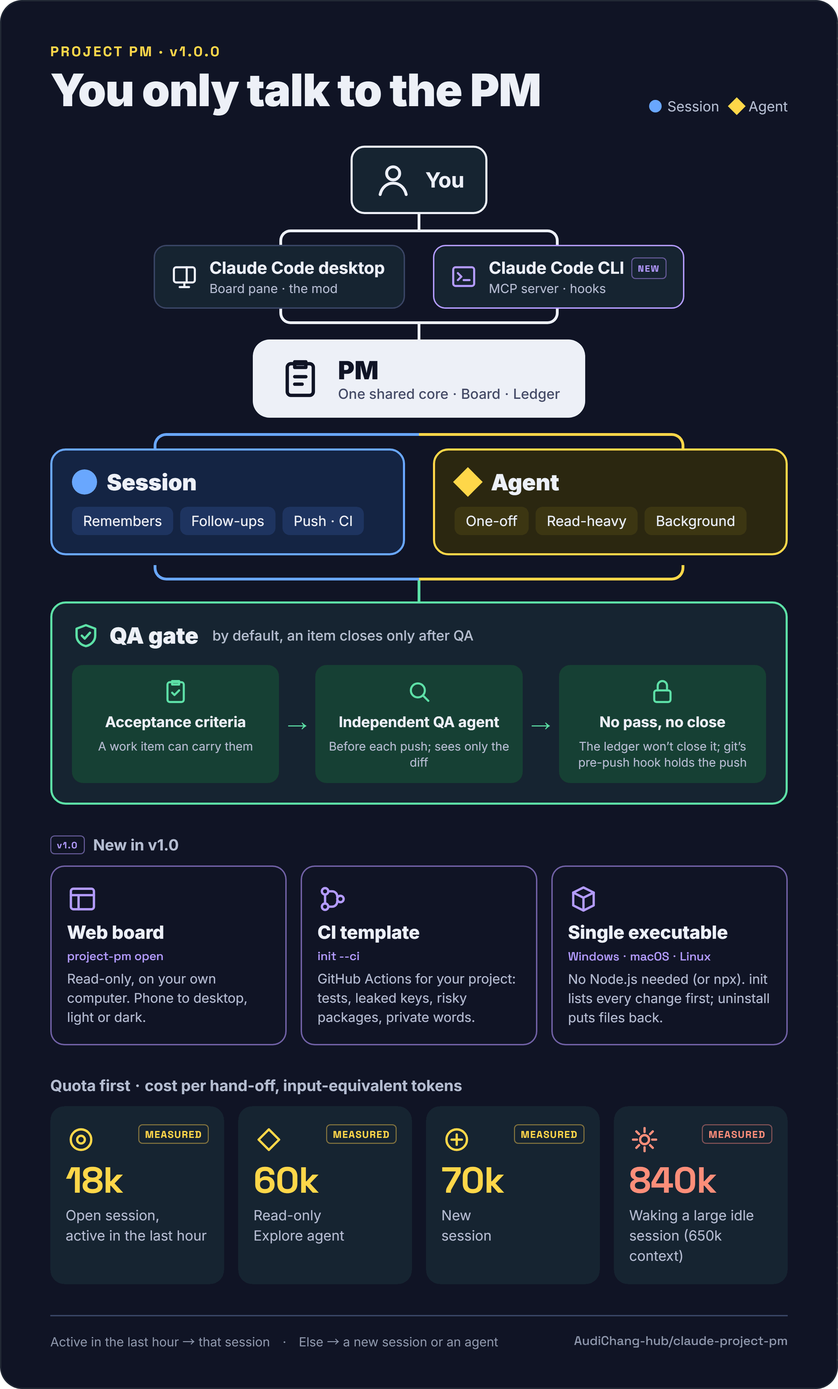
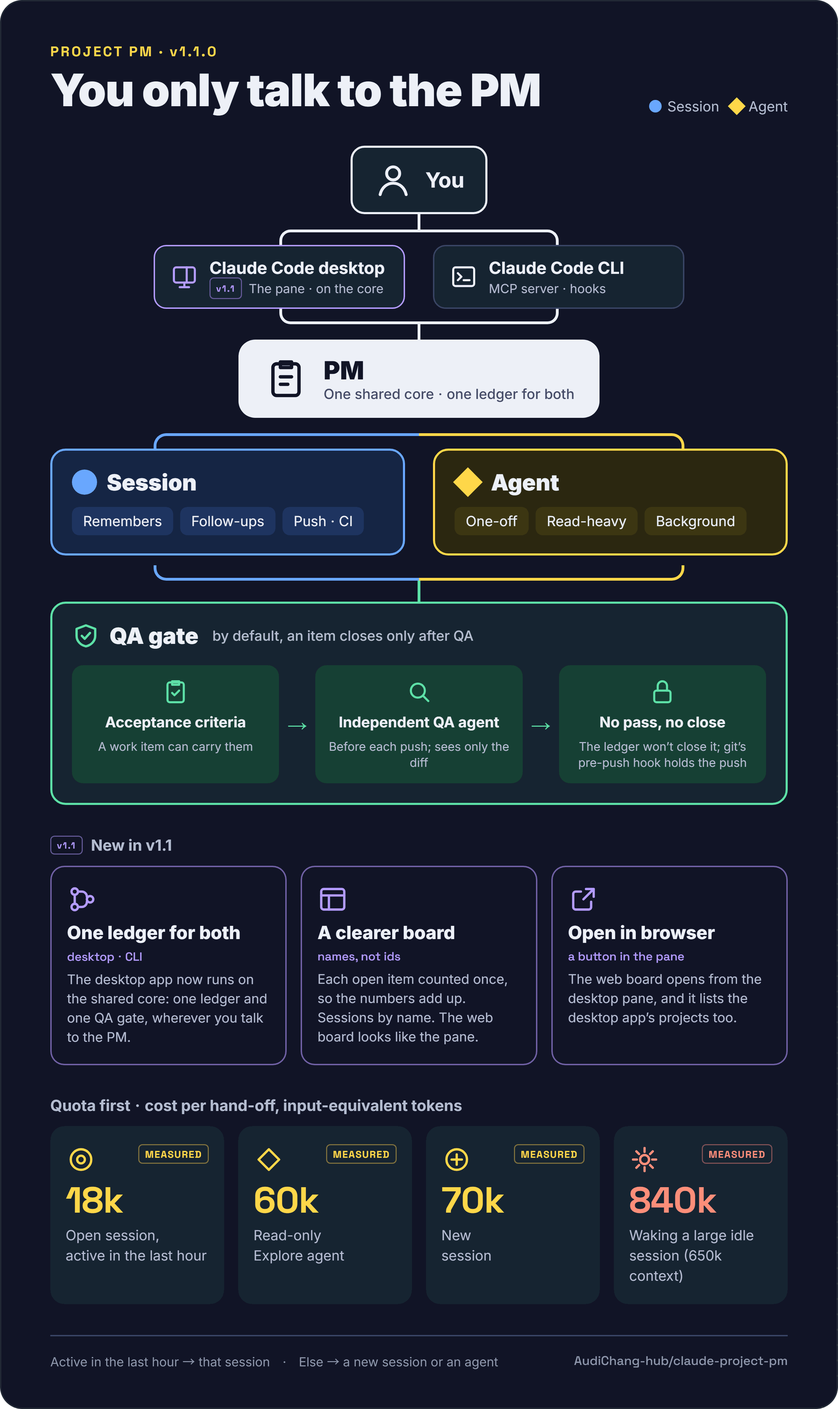
Prepare v1.1.0's docs: changelog, version, READMEs, overview (T-40 M7)
- CHANGELOG: the 1.1.0 entry (2026-11-21) for T-40, T-42, T-43, T-44,
  T-45, T-46, T-47 and T-49, with a placeholder line for T-48 (the PM
  manages its own context: auto compact and auto handoff), to be written
  in full when M8 merges. Unreleased stays, empty.
- Version 1.1.0 (MINOR: v1.1 adds features) in .claude-plugin/plugin.json,
  core/package.json, core/package-lock.json and core/src/version.ts (held
  equal to package.json by mcp.spec). init's E2 gate (core/src/mod.ts
  E2_VERSION) is already 1.1.0, so this mod counts as one the core joins.
- README en and zh-TW: "New in v1.1" in plain words in place of v1.0's
  highlights (v1.0 is one line to the CHANGELOG); the platform table as of
  v1.1, desktop and CLI only: a Web board row, the ledger and QA gate
  shared by both once the core is installed; overview alt text says v1.1.
  7,989 and 7,962 bytes (were 7,770 and 7,755; no CI or test limits them).
- docs/demo/board.html: the line under the progress counts the open items
  as openBreakdown does (T-42), in OPEN_COLOR's colors: "5 open: 2 awaiting
  QA · 3 on track". Its image is not re-shot here (after M8).
- docs/demo/overview.html: v1.1.0. The desktop way in carries the v1.1
  badge (on the core); the PM is "one shared core, one ledger for both";
  New in v1.1: one ledger for both, a clearer board, open in browser. No
  M8 content. docs/images/overview*.png re-rendered with capture.ps1 and
  cropped and reduced as docs/demo/README.md says; README there updated.

diff --git a/docs/demo/overview.html b/docs/demo/overview.html
@@ -1,10 +1,12 @@
 <!doctype html>
 <!--
-  The v1.0.0 one-page overview at the top of the READMEs, as a static page to capture.
-  Built on the v0.8.0 design canvas "Project PM v0.8.0 一頁圖解" and the v0.9.0 QA layer. v1.0 adds the
-  two ways in (the desktop app through the mod, the CLI through the core's MCP server and hooks, both on
-  one shared store: docs/design/v1-core.md) and the core's three new pieces: the web board, the CI
-  template for your own projects and the single executable.
+  The v1.1.0 one-page overview at the top of the READMEs, as a static page to capture.
+  Built on the v0.8.0 design canvas "Project PM v0.8.0 一頁圖解" and the v0.9.0 QA layer. v1.0 added the
+  two ways in (the desktop app through the mod, the CLI through the core's MCP server and hooks) and the
+  core. v1.1 has the desktop mod use the core too (E2, docs/design/v1-core.md 2.4 and 3.7), so both ways
+  share one ledger and one QA gate (T-40), and shows v1.1's three new pieces: the shared ledger, a clearer
+  board (T-42, T-43, T-44) and the web board opened from the pane (T-45, T-47). T-48 (the PM managing its
+  own context) is not on it yet.
 
   Views:  overview.html?lang=en      docs/images/overview.png
           overview.html?lang=zh-TW   docs/images/overview-zh-TW.png
@@ -103,7 +105,7 @@
   .way b { display: block; font-size: 24px; font-weight: 700; }
   .way small { display: block; font-size: 18px; color: var(--ink-2); margin-top: 4px; }
   .way.new { border-color: var(--violet); }
-  .way b .badge { margin-left: 10px; vertical-align: 3px; }
+  .way small .badge { margin-right: 10px; vertical-align: 2px; }
   .badge { font: 700 13px/1 var(--num); letter-spacing: .1em; color: var(--violet); border: 1.5px solid rgba(180, 156, 255, .5); border-radius: 6px; padding: 6px 8px 5px; white-space: nowrap; }
   :lang(zh-TW) .badge { font: 700 14px/1 var(--sans); letter-spacing: .04em; padding: 6px 8px; }
   /* You → the two ways in → the PM: a stem, then a bracket whose ends meet each box at its middle (columns 400px apart). */
@@ -147,10 +149,10 @@ const COPY = {
     title: 'You only talk to the PM',
     you: 'You',
     ways: [
-      ['Claude Code desktop', 'Board pane · the mod', ''],
-      ['Claude Code CLI', 'MCP server · hooks', 'NEW'],
+      ['Claude Code desktop', 'The pane · on the core', 'v1.1'],
+      ['Claude Code CLI', 'MCP server · hooks', ''],
     ],
-    pm: 'One shared core · Board · Ledger',
+    pm: 'One shared core · one ledger for both',
     session: ['Remembers', 'Follow-ups', 'Push · CI'],
     agent: ['One-off', 'Read-heavy', 'Background'],
     qaTitle: 'QA gate',
@@ -160,11 +162,11 @@ const COPY = {
       ['Independent QA agent', 'Before each push; sees only the diff'],
       ['No pass, no close', 'The ledger won’t close it; git’s <span class="nowrap">pre-push hook</span> holds the push'],
     ],
-    coreTitle: 'New in v1.0',
+    coreTitle: 'New in v1.1',
     pieces: [
-      ['Web board', 'project-pm open', 'Read-only, on your own computer. Phone to desktop, light or dark.'],
-      ['CI template', 'init --ci', 'GitHub Actions for your project: tests, leaked keys, risky packages, private words.'],
-      ['Single executable', 'Windows · macOS · Linux', 'No Node.js needed (or npx). init lists every change first; uninstall puts files back.'],
+      ['One ledger for both', 'desktop · CLI', 'The desktop app now runs on the shared core: one ledger and one QA gate, wherever you talk to the PM.'],
+      ['A clearer board', 'names, not ids', 'Each open item counted once, so the numbers add up. Sessions by name. The web board looks like the pane.'],
+      ['Open in browser', 'a button in the pane', 'The web board opens from the desktop pane, and it lists the desktop app’s projects too.'],
     ],
     costsTitle: 'Quota first · cost per hand-off, input-equivalent tokens',
     stats: [
@@ -179,10 +181,10 @@ const COPY = {
     title: '你只跟 PM 說話',
     you: '你',
     ways: [
-      ['Claude Code 桌面版', '看板面板 · mod', ''],
-      ['Claude Code CLI', 'MCP server · hook', '新'],
+      ['Claude Code 桌面版', '看板面板 · 改用核心', 'v1.1'],
+      ['Claude Code CLI', 'MCP server · hook', ''],
     ],
-    pm: '共用核心 · 看板 · 交辦清單',
+    pm: '共用核心 · 兩邊同一份交辦清單',
     session: ['要記憶', '會追問', 'push · CI'],
     agent: ['做完就走', '大量讀取', '背景執行'],
     qaTitle: 'QA 關卡',
@@ -192,11 +194,11 @@ const COPY = {
       ['獨立驗收 Agent', 'push 前派出，只看 diff'],
       ['沒通過不能結案', '交辦清單拒絕結案，git 的 <span class="nowrap">pre-push hook</span> 擋下 push'],
     ],
-    coreTitle: 'v1.0 新增',
+    coreTitle: 'v1.1 新增',
     pieces: [
-      ['網頁看板', 'project-pm open', '唯讀，只在你自己的電腦上。手機到桌面、淺色深色都能看。'],
-      ['CI 範本', 'init --ci', '給你的專案用的 GitHub Actions：測試、外洩的金鑰、有風險的套件、不能公開的詞。'],
-      ['單一執行檔', 'Windows · macOS · Linux', '不用裝 Node.js（也可用 npx）。init 先列出要改的檔，uninstall 會還原。'],
+      ['同一份交辦清單', '桌面版 · CLI', '桌面版改用共用核心：不管在哪裡跟 PM 說話，都是同一份交辦清單、同一道 QA 關卡。'],
+      ['看板更好懂', '用名稱，不用 id', '每個進行中的項目只算一次，數字加得起來。Session 用名稱顯示，網頁看板和面板長得一樣。'],
+      ['在瀏覽器開啟', '面板上的一個按鈕', '從桌面版面板直接打開網頁看板，桌面版的專案也列得出來。'],
     ],
     costsTitle: '額度優先 · 每次派工的成本（等值輸入 tokens）',
     stats: [
@@ -229,9 +231,10 @@ const ICON = {
     '<rect x="5" y="11" width="14" height="10" rx="2"></rect><path d="M8 11V7a4 4 0 0 1 8 0v4"></path>',
   ],
   pieces: [
-    '<rect x="3" y="4" width="18" height="16" rx="2"></rect><path d="M3 9h18M9 9v11"></path>',
+    // Two ways meeting in one ledger; the board; a window opening outward.
     '<circle cx="6" cy="6" r="2.5"></circle><circle cx="6" cy="18" r="2.5"></circle><circle cx="18" cy="12" r="2.5"></circle><path d="M6 8.5v7M8.5 6h3a4 4 0 0 1 4 4M8.5 18h3a4 4 0 0 0 4-4"></path>',
-    '<path d="M12 3 4 7v10l8 4 8-4V7z"></path><path d="m4 7 8 4 8-4M12 11v10"></path>',
+    '<rect x="3" y="4" width="18" height="16" rx="2"></rect><path d="M3 9h18M9 9v11"></path>',
+    '<path d="M14 4h6v6M20 4l-8 8"></path><path d="M18 14v4a2 2 0 0 1-2 2H6a2 2 0 0 1-2-2V8a2 2 0 0 1 2-2h4"></path>',
   ],
   stats: [
     '<circle cx="12" cy="12" r="3"></circle><circle cx="12" cy="12" r="8"></circle>',
@@ -243,7 +246,7 @@ const ICON = {
 document.getElementById('poster').innerHTML = `
   <div class="row head">
     <div>
-      <div class="eyebrow">PROJECT PM · v1.0.0</div>
+      <div class="eyebrow">PROJECT PM · v1.1.0</div>
       <h1>${c.title}</h1>
     </div>
     <div class="row legend"><span><i class="dot"></i>Session</span><span><i class="diamond"></i>Agent</span></div>
@@ -253,7 +256,7 @@ document.getElementById('poster').innerHTML = `
     <div class="row you">${svg(56, '#eef1f8', 1.8, ICON.person)}${c.you}</div>
     <div class="stem short"></div>
     <div class="fork"><i></i><i></i></div>
-    <div class="ways">${c.ways.map(([b, t, tag], i) => `<div class="way${tag ? ' new' : ''}">${svg(40, tag ? '#b49cff' : '#eef1f8', 1.8, ICON.ways[i])}<div><b>${b}${tag ? `<span class="badge">${tag}</span>` : ''}</b><small>${dot(t)}</small></div></div>`).join('')}</div>
+    <div class="ways">${c.ways.map(([b, t, tag], i) => `<div class="way${tag ? ' new' : ''}">${svg(40, tag ? '#b49cff' : '#eef1f8', 1.8, ICON.ways[i])}<div><b>${b}</b><small>${tag ? `<span class="badge">${tag}</span>` : ''}${dot(t)}</small></div></div>`).join('')}</div>
     <div class="join"><i></i><i></i></div>
     <div class="stem short"></div>
     <div class="row pm">${svg(64, '#0e1322', 1.8, ICON.clipboard)}<div><b>PM</b><small>${dot(c.pm)}</small></div></div>
@@ -271,7 +274,7 @@ document.getElementById('poster').innerHTML = `
   </div>
 
   <div class="core">
-    <h2><span class="badge">v1.0</span>${c.coreTitle}</h2>
+    <h2><span class="badge">v1.1</span>${c.coreTitle}</h2>
     <div class="three">${c.pieces.map(([b, code, t], i) => `<div class="piece">${svg(44, '#b49cff', 1.8, ICON.pieces[i])}<b>${b}</b><code>${dot(code)}</code><p>${t}</p></div>`).join('')}</div>
   </div>
 

diff --git a/docs/demo/board.html b/docs/demo/board.html
@@ -138,6 +138,13 @@ const MESSAGES = {
     'pane.pmSelf': 'PM: this session',
     'pane.itemsDone': 'Work items done {done}/{total}',
     'pane.itemsOpen': '{n} open',
+    'items.open': '{n} open',
+    'items.summary': '{lead}: {parts}',
+    'items.joiner': ' · ',
+    'items.qaFailed': '{n} failed QA',
+    'items.qaAwaiting': '{n} awaiting QA',
+    'items.unassigned': '{n} unassigned',
+    'items.normal': '{n} on track',
     'pane.kpiRunning': 'Running',
     'pane.kpiAsking': 'Waiting on you',
     'pane.kpiOpen': 'Not finished',
@@ -190,6 +197,13 @@ const MESSAGES = {
     'pane.pmSelf': 'PM：本 Session',
     'pane.itemsDone': '工作項目完成 {done}/{total}',
     'pane.itemsOpen': '{n} 項進行中',
+    'items.open': '{n} 項進行中',
+    'items.summary': '{lead}：{parts}',
+    'items.joiner': '・',
+    'items.qaFailed': '{n} 項 QA 不通過',
+    'items.qaAwaiting': '{n} 項待 QA',
+    'items.unassigned': '{n} 項未指派',
+    'items.normal': '{n} 項正常',
     'pane.kpiRunning': '執行中',
     'pane.kpiAsking': '待回覆',
     'pane.kpiOpen': '尚未完成',
@@ -341,6 +355,26 @@ const runningAgents = agentCount('running')
 const ratio = items.done / items.total
 const SEP = '　·　'
 
+// The open items by kind, as openBreakdown in hooks/qa.ts counts them (T-42): each item once, under the first kind it is
+// (failed QA, awaiting QA, unassigned, on track), kinds with none left out. An item awaits QA when it has no verdict and
+// its owner has delivered (a session not released or waiting on CI; an agent done or to verify). Colors: OPEN_COLOR in
+// hooks/view.tsx.
+const OPEN_KINDS = ['qaFailed', 'qaAwaiting', 'unassigned', 'normal']
+const OPEN_COLOR = { qaFailed: 'error', qaAwaiting: 'warning', unassigned: 'warning' }
+const isDelivered = i => (i.agent !== undefined ? ['done', 'verify'].includes(agents[i.agent].state) : ['unreleased', 'ci'].includes(i.status))
+const openKindOf = i => {
+  if (i.qa === 'fail') return 'qaFailed'
+  if (!i.qa && isDelivered(i)) return 'qaAwaiting'
+  return i.owner || i.agent !== undefined ? 'normal' : 'unassigned'
+}
+const breakdown = () => {
+  const parts = OPEN_KINDS.map(kind => ({ kind, n: ledger.filter(i => openKindOf(i) === kind).length })).filter(p => p.n > 0)
+  const lead = t('items.open', { n: ledger.length })
+  if (!parts.length) return `<span class="dim">${lead}</span>`
+  const said = parts.map(p => `<span style="color:${OPEN_COLOR[p.kind] ? colorVar(OPEN_COLOR[p.kind]) : 'var(--ink-3)'}">${t(`items.${p.kind}`, { n: p.n })}</span>`)
+  return `<span class="dim">${t('items.summary', { lead, parts: '' })}</span>${said.join(`<span class="dim">${t('items.joiner')}</span>`)}`
+}
+
 const metric = (value, label, color, sub) => `
   <div class="metric">
     <div class="title tab" style="color:${value ? colorVar(color) : 'var(--ink-3)'}">${value}</div>
@@ -422,7 +456,7 @@ if (q.get('view') === 'states') {
         <div style="flex:1;min-width:0">
           <div class="title tab">${Math.round(ratio * 100)}%</div>
           <div class="caption dim trunc tab">${t('pane.itemsDone', { done: items.done, total: items.total })}</div>
-          <div class="caption dim trunc tab">${t('pane.itemsOpen', { n: ledger.length })}</div>
+          <div class="caption tab">${breakdown()}</div>
         </div>
       </div>
       <div class="row" style="align-items:flex-start">

diff --git a/core/src/version.ts b/core/src/version.ts
@@ -1,2 +1,2 @@
 /** The core's version: the same as core/package.json (a test holds them together), and the mod's from 1.0.0 on (D7). */
-export const VERSION = '1.0.0'
+export const VERSION = '1.1.0'

diff --git a/CHANGELOG.md b/CHANGELOG.md
@@ -7,6 +7,27 @@ Versions match `version` in `.claude-plugin/plugin.json`.
 
 ## [Unreleased]
 
+## [1.1.0] - 2026-11-21
+
+### Added
+- The desktop app and the CLI share one ledger and one QA gate (E2, docs/design/v1-core.md 2.4 and 3.7; T-40). The desktop mod finds the core in Claude Code's settings (`~/.claude.json`, user scope or this project's) or by the core's own `pm` tool in the session's tools, and then registers no `board`, `ledger` or `report` of its own: the core answers them, after the mod has refreshed the session list it keeps for the core (the PM's round file, rewritten at least every 4 minutes so the core does not take a quiet desktop app for a closed one). `/pm` and `/pm off` go through the core's `pm` tool; if the core does not answer, the mod writes its own copy as before and the core merges it on read. The mod reads a project from both copies with the core's own merge, and a session's card shows a report made through the core. The PM's agents still may not change the ledger. Without the core the mod works as in v1.0. Nothing to migrate by hand: the core's first write merges the mod's copy, and it keeps writing the mod's copy in full, so going back to a v1.0 mod or removing the core loses nothing.
+- The core knows the desktop app's sessions (T-40). In the desktop app it takes the session's own id (`CLAUDE_CODE_HOST_SESSION_ID`, `local_…`), so the PM, owners and checkers it records are the mod's. When a project's PM is a desktop session, the core's board and its close check read the desktop app's session list from that PM's last round, each session's record, last words and CI or push, and the PM's agents; a round older than 10 minutes names the sessions but none counts as running.
+- **Open in browser** at the bottom of the desktop pane opens the web board (T-45). If the core's server is running, the system's own opener gets the address; if the core is installed but not running, the core's `open` starts it; if the core is not installed, a box says how to install it, with a link to Releases. The board's private key goes to the browser only, never into the pane's words, its state or a log.
+- PM manages its own context: auto compact and auto handoff (T-48). <!-- Placeholder: written in full when M8 merges. -->
+
+### Changed
+- `init` writes the project's section straight into `CLAUDE.md` (made if there is none) and no longer writes `AGENTS.md` or an `@AGENTS.md` line; the Codex 28 KiB check and the one-line section are gone (T-40). Running `init` again on a v1.0 install takes v1.0's `AGENTS.md` section out and puts the section in place of the `@AGENTS.md` line; `uninstall` still restores both files from `install-log.json`. Beside a desktop mod of 1.1 or later, `init` now adds the MCP server and the hooks too; beside an older mod it keeps v1.0's behavior and says to update the mod. In a desktop session with the mod installed, the core's Claude Code hooks stand aside, since the mod already keeps the session's record and hands each turn the delivery ask and the guidelines.
+- The summary under the progress adds up (T-42): each open work item counts once, under what it needs most (failed QA, awaiting QA, unassigned, on track), and kinds with none are left out: "4 open: 1 failed QA · 1 awaiting QA · 1 unassigned · 1 on track". The pane, the text board and the web board say the same line from one function. Before, the pane said "4 open" and then counted an item with two problems twice.
+- Sessions are named for people, never by their raw id (T-43): by their title, else the title they reported, else their instruction cut to 40 characters, and only then a short id (`6f1d3b2a`). The web board, the pane, the toasts and `project-pm board` in a terminal show names only; the board the model reads keeps the id beside each name, since the PM assigns owners by it. The web board sets every word as text, so a title or report cannot add anything to the page (checked in headless Edge or Chrome).
+- The web board looks and counts like the desktop pane (T-44): the pane's colors, light and dark, with text in a status color brought up to WCAG AA; the completion ring, the summary line and the three figures (running, waiting on you, not finished); work items, session cards and agent cards as the pane draws them. One column on a phone, two from 1040 px, no sideways scrolling from 375 px; animations stop under reduced motion.
+- `project-pm board` (`git pm board`) prints the board as people read it, sessions by name (T-46); `--json` and the MCP board tool keep the ids. The READMEs show the PM in a terminal and `git pm board`, in both languages, drawn from the core's real output.
+- The web board's error pages say to run `git pm open` in the project's folder or press the pane's button, and the READMEs say plainly how to open the board and why typing `127.0.0.1:47130` alone shows an error page (T-45).
+- The desktop mod and the core are 1.1.0. `init` uses the core with a desktop mod from 1.1.0 on.
+
+### Fixed
+- A desktop user's web board said "No project yet": it listed only the core's own projects, while a desktop user's ledger is in the mod's folder until the core first writes it (T-47). The web board now reads both folders, each project merged as the board reads it, read only. Its empty states tell people to ask Claude in Claude Code to be the project's PM, instead of naming the `pm` tool's `claim`.
+- A QA agent that failed stayed under *Needs attention* after its work item closed (T-49). A QA agent never owns its item, and an agent was settled only by the items it owned; an agent that owns nothing now goes by its own work item, and folds away once that item is closed after the agent ended. The core's board does the same.
+
 ## [1.0.0] - 2026-11-19
 
 ### Added

diff --git a/README.zh-TW.md b/README.zh-TW.md
@@ -13,7 +13,7 @@
 </picture>
 
 <p align="center">
-  <img src="docs/images/overview-zh-TW.png" alt="Project PM v1.0.0 一頁圖解：你從 Claude Code 桌面版或 CLI 跟 PM 說話，兩邊用同一個共用核心；PM 把工作交給 Session 或 Agent；結案和 push 前都要過 QA 關卡；v1.0 新增網頁看板、CI 範本和單一執行檔；以及每次派工的實測成本。" width="100%">
+  <img src="docs/images/overview-zh-TW.png" alt="Project PM v1.1.0 一頁圖解：你從 Claude Code 桌面版或 CLI 跟 PM 說話，兩邊用同一個共用核心；PM 把工作交給 Session 或 Agent；結案和 push 前都要過 QA 關卡；v1.1 新增兩邊同一份交辦清單、更好懂的看板、從面板打開網頁看板；以及每次派工的實測成本。" width="100%">
 </p>
 
 ## 解決什麼問題
@@ -22,15 +22,15 @@
 
 Project PM 讓專案裡的一個 Session 擔任 PM。它即時掌握每個 Session 和 Agent 的狀態，記下你交辦的每件事；只要還有事在等你、沒做完、等 CI，或還沒 push、還沒發布，它就不會說「都完成了」。
 
-## v1.0 亮點
+## v1.1 新功能
 
-- **CLI 也能用。** 一份共用核心用 MCP 提供 PM 的工具，Claude Code 的命令列也有看板、交辦清單和 QA 關卡，而且和桌面版共用同一份交辦清單。
-- **push 前先驗收。** git 的 pre-push hook 會擋下沒通過 QA 的 commit；`git pm skip "<理由>"` 可以明確放行一次，理由會留下紀錄。
-- **給你的專案用的 CI 範本。** `init --ci` 加上 GitHub Actions：跑你的測試、找外洩的金鑰、有風險的套件和不能公開的詞。
-- **一個程式，不用裝 Node.js。** Windows、macOS、Linux 都有單一執行檔（npm 版之後提供）。`init` 先列出要改的每個檔，`uninstall` 把每個檔還原。
-- **網頁看板**，在瀏覽器裡看，唯讀，只在你自己的電腦上。
+- **兩邊同一份清單。** 裝了核心之後，桌面版和 CLI 用同一份交辦清單、同一道 QA 關卡。v1.0 的資料會自動帶過來。
+- **數字加得起來。** 看板把每個進行中的項目只算一次，歸在它最需要處理的那一類。
+- **用名稱，不用代碼。** Session 用標題或你交代的事顯示，不再出現一長串 id。
+- **網頁看板一鍵打開。** 按桌面版面板最下面的**在瀏覽器開啟**。網頁看板現在和面板長得一樣，也列出你在桌面版的專案。
+- **PM 的說明寫進 `CLAUDE.md`。** `init` 把專案段落寫在這裡，不再寫進 `AGENTS.md`。
 
-v0.9.x（QA 關卡、額度優先派工）：[CHANGELOG](CHANGELOG.md)
+v1.0（CLI、push 前驗收、CI 範本、單一執行檔）和更早的版本：[CHANGELOG](CHANGELOG.md)
 
 ## 安裝
 
@@ -53,18 +53,21 @@ v0.9.x（QA 關卡、額度優先派工）：[CHANGELOG](CHANGELOG.md)
 | 功能 | Claude Code 桌面版 | Claude Code CLI¹ |
 | --- | :-: | :-: |
 | 看板 | ✅ | ✅ |
-| 交辦清單 | ✅ | ✅ |
-| QA 關卡 | ✅ | ✅ |
+| 網頁看板² | ✅ | ✅ |
+| 交辦清單，兩邊共用³ | ✅ | ✅ |
+| QA 關卡，兩邊共用³ | ✅ | ✅ |
 | 交付判斷（git、CI） | ✅ | ◐ |
 | 即時追蹤 Session | ✅ | ◐ |
 | Agent 派工 | ✅ | ◐ |
 | 開發準則 | ✅ | ✅ |
-| CI 範本² | ✅ | ✅ |
+| CI 範本⁴ | ✅ | ✅ |
 
 ¹ 在 Claude Code 2.1.326 實測。看板是網頁看板和 `git pm board`。部分支援的地方：CI 狀態（git 有檢查）、只看得到裝了 hook 的 Session、不會自動設定 Agent。
-² GitHub Actions，在你的 repo 每次 push 和 pull request 時執行。
+² 要先裝核心（上面 CLI 的步驟）。桌面版按面板上的**在瀏覽器開啟**。
+³ 裝了核心之後；沒裝核心時，桌面版用自己的一份。
+⁴ GitHub Actions，在你的 repo 每次 push 和 pull request 時執行。
 
-這張表每次推版都會更新。
+這張表是 v1.1 的狀態，每次推版都會更新。
 
 ## PM 幫你守住什麼
 

diff --git a/README.md b/README.md
@@ -13,7 +13,7 @@
 </picture>
 
 <p align="center">
-  <img src="docs/images/overview.png" alt="Project PM v1.0.0 at a glance: you talk to the PM from the Claude Code desktop app or the CLI, both on one shared core; the PM hands work to sessions or agents; a QA gate before anything closes or is pushed; new in v1.0, a web board, a CI template and a single executable; and the measured cost of each hand-off." width="100%">
+  <img src="docs/images/overview.png" alt="Project PM v1.1.0 at a glance: you talk to the PM from the Claude Code desktop app or the CLI, both on one shared core; the PM hands work to sessions or agents; a QA gate before anything closes or is pushed; new in v1.1, one ledger for both, a clearer board and the web board opened from the pane; and the measured cost of each hand-off." width="100%">
 </p>
 
 ## Why
@@ -22,15 +22,15 @@ With several sessions open on one project, work slips: a question waits an hour 
 
 Project PM makes one session the project's PM. It keeps a live board of every session and agent and a ledger of everything you asked for, and it won't call work done while anything is waiting on you, unfinished, waiting on CI, or not yet pushed or released.
 
-## New in v1.0
+## New in v1.1
 
-- **The CLI works too.** One shared core serves the PM's tools over MCP, so Claude Code's command line gets the board, the ledger and the QA gate. It shares one ledger with the desktop app.
-- **QA before the push.** A git pre-push hook holds commits no QA passed; `git pm skip "<reason>"` lets one through on the record.
-- **A CI template for your projects.** `init --ci` adds GitHub Actions: your tests, leaked keys, risky packages and words you keep private.
-- **One program, no Node.js.** A single executable for Windows, macOS and Linux (an npm version comes later). `init` lists every change before making it; `uninstall` puts every file back.
-- **A web board** in your browser, read only and on your own computer.
+- **One list for both apps.** With the core installed, the desktop app and the CLI use the same ledger and the same QA gate. Your v1.0 data carries over by itself.
+- **Numbers that add up.** The board counts each open item once, under what it needs most.
+- **Names, not codes.** Sessions show by their title or what you asked them, never by a long id.
+- **The web board, one click away.** Press **Open in browser** at the bottom of the desktop pane. The web board now looks like the pane and lists your desktop projects too.
+- **The PM's notes go in `CLAUDE.md`.** `init` writes its project section there, no longer in `AGENTS.md`.
 
-v0.9.x (QA gate, quota-first hand-offs): [CHANGELOG](CHANGELOG.md)
+v1.0 (the CLI, QA before the push, the CI template, one program) and earlier: [CHANGELOG](CHANGELOG.md)
 
 ## Install
 
@@ -53,18 +53,21 @@ Step by step, and what to do when Windows or macOS warns you (those steps are no
 | Feature | Claude Code desktop | Claude Code CLI¹ |
 | --- | :-: | :-: |
 | Board | ✅ | ✅ |
-| Ledger | ✅ | ✅ |
-| QA gate | ✅ | ✅ |
+| Web board² | ✅ | ✅ |
+| Ledger, shared by both³ | ✅ | ✅ |
+| QA gate, shared by both³ | ✅ | ✅ |
 | Delivery check (git, CI) | ✅ | ◐ |
 | Live session tracking | ✅ | ◐ |
 | Agent hand-off | ✅ | ◐ |
 | Development guidelines | ✅ | ✅ |
-| CI template² | ✅ | ✅ |
+| CI template⁴ | ✅ | ✅ |
 
 ¹ Tested with Claude Code 2.1.326. The board is the web board and `git pm board`. Partial: CI status (git is checked), sessions seen only through hooks, and no automatic agent set-up.
-² GitHub Actions, run in your repository on every push and pull request.
+² Needs the core (the CLI step above). In the desktop app: **Open in browser** on the pane.
+³ Once the core is installed; without it, the desktop app keeps its own.
+⁴ GitHub Actions, run in your repository on every push and pull request.
 
-Updated with every release.
+As of v1.1. Updated with every release.
 
 ## What the PM guards
 

diff --git a/docs/demo/README.md b/docs/demo/README.md
@@ -12,16 +12,19 @@ session, `~/.claude/project-pm/` or `~/.project-pm/`.
 | `webboard.mts` (the real web board) | `web-board-light.png`, `web-board-dark.png` and their `-zh-TW` versions; `how-qa*.png`, `how-guidelines*.png` | The CLI part of each README; docs/how-it-works*.md |
 | `webboard.mts` with `terminal.html` (the core's real output) | `cli-chat.png`, `cli-board.png` and their `-zh-TW` versions | *See it in the CLI* in each README |
 
-- `overview.html` is the v1.0.0 one-page overview: the two ways in (the desktop app through the mod,
-  the CLI through the core's MCP server and hooks) on one shared core, the v0.8.0 sessions-and-agents
-  diagram, the QA layer (`docs/design/qa.md`) with the pre-push hook, and the core's three new pieces
-  (web board, CI template, single executable). Its four costs are the T-30 quota measurements in
-  input-equivalent tokens (PM rule 10 in `hooks/messages.ts`, which the core's PM gets too); it shows
-  no other number.
+- `overview.html` is the v1.1.0 one-page overview: the two ways in (the desktop app through the mod,
+  which uses the core from v1.1 on, and the CLI through the core's MCP server and hooks) on one shared
+  core and one ledger, the v0.8.0 sessions-and-agents diagram, the QA layer (`docs/design/qa.md`) with
+  the pre-push hook, and v1.1's three new pieces (one ledger for both, a clearer board, the web board
+  opened from the pane). It does not show T-48 (the PM managing its own context) yet. Its four costs
+  are the T-30 quota measurements in input-equivalent tokens (PM rule 10 in `hooks/messages.ts`, which
+  the core's PM gets too); it shows no other number.
 - `board.html` is the PM's pane for a made-up project ("Acme Storefront"). Its marks (ring, status
   dots, agent diamonds, step bars) and colors are copied from `hooks/view.tsx` and
   `hooks/sessions.ts`, its words from `hooks/messages.ts` (only the keys the pane uses), and its
-  layout follows `renderPane()`. When those change, update this page to match. `view=states` shows
+  layout follows `renderPane()`. The line under the progress counts the open items by kind as
+  `openBreakdown` in `hooks/qa.ts` does (T-42: "5 open: 2 awaiting QA · 3 on track"), each item once,
+  in `OPEN_COLOR`'s colors. When those change, update this page to match. `view=states` shows
   only the session cards of the statuses under *Needs attention*, with a usage limit (whose words are
   Claude Code's own error, in English in either language) and a session waiting on CI added.
 - `hero.html` is a schematic Claude Code desktop window: the person asks the PM whether anything is
